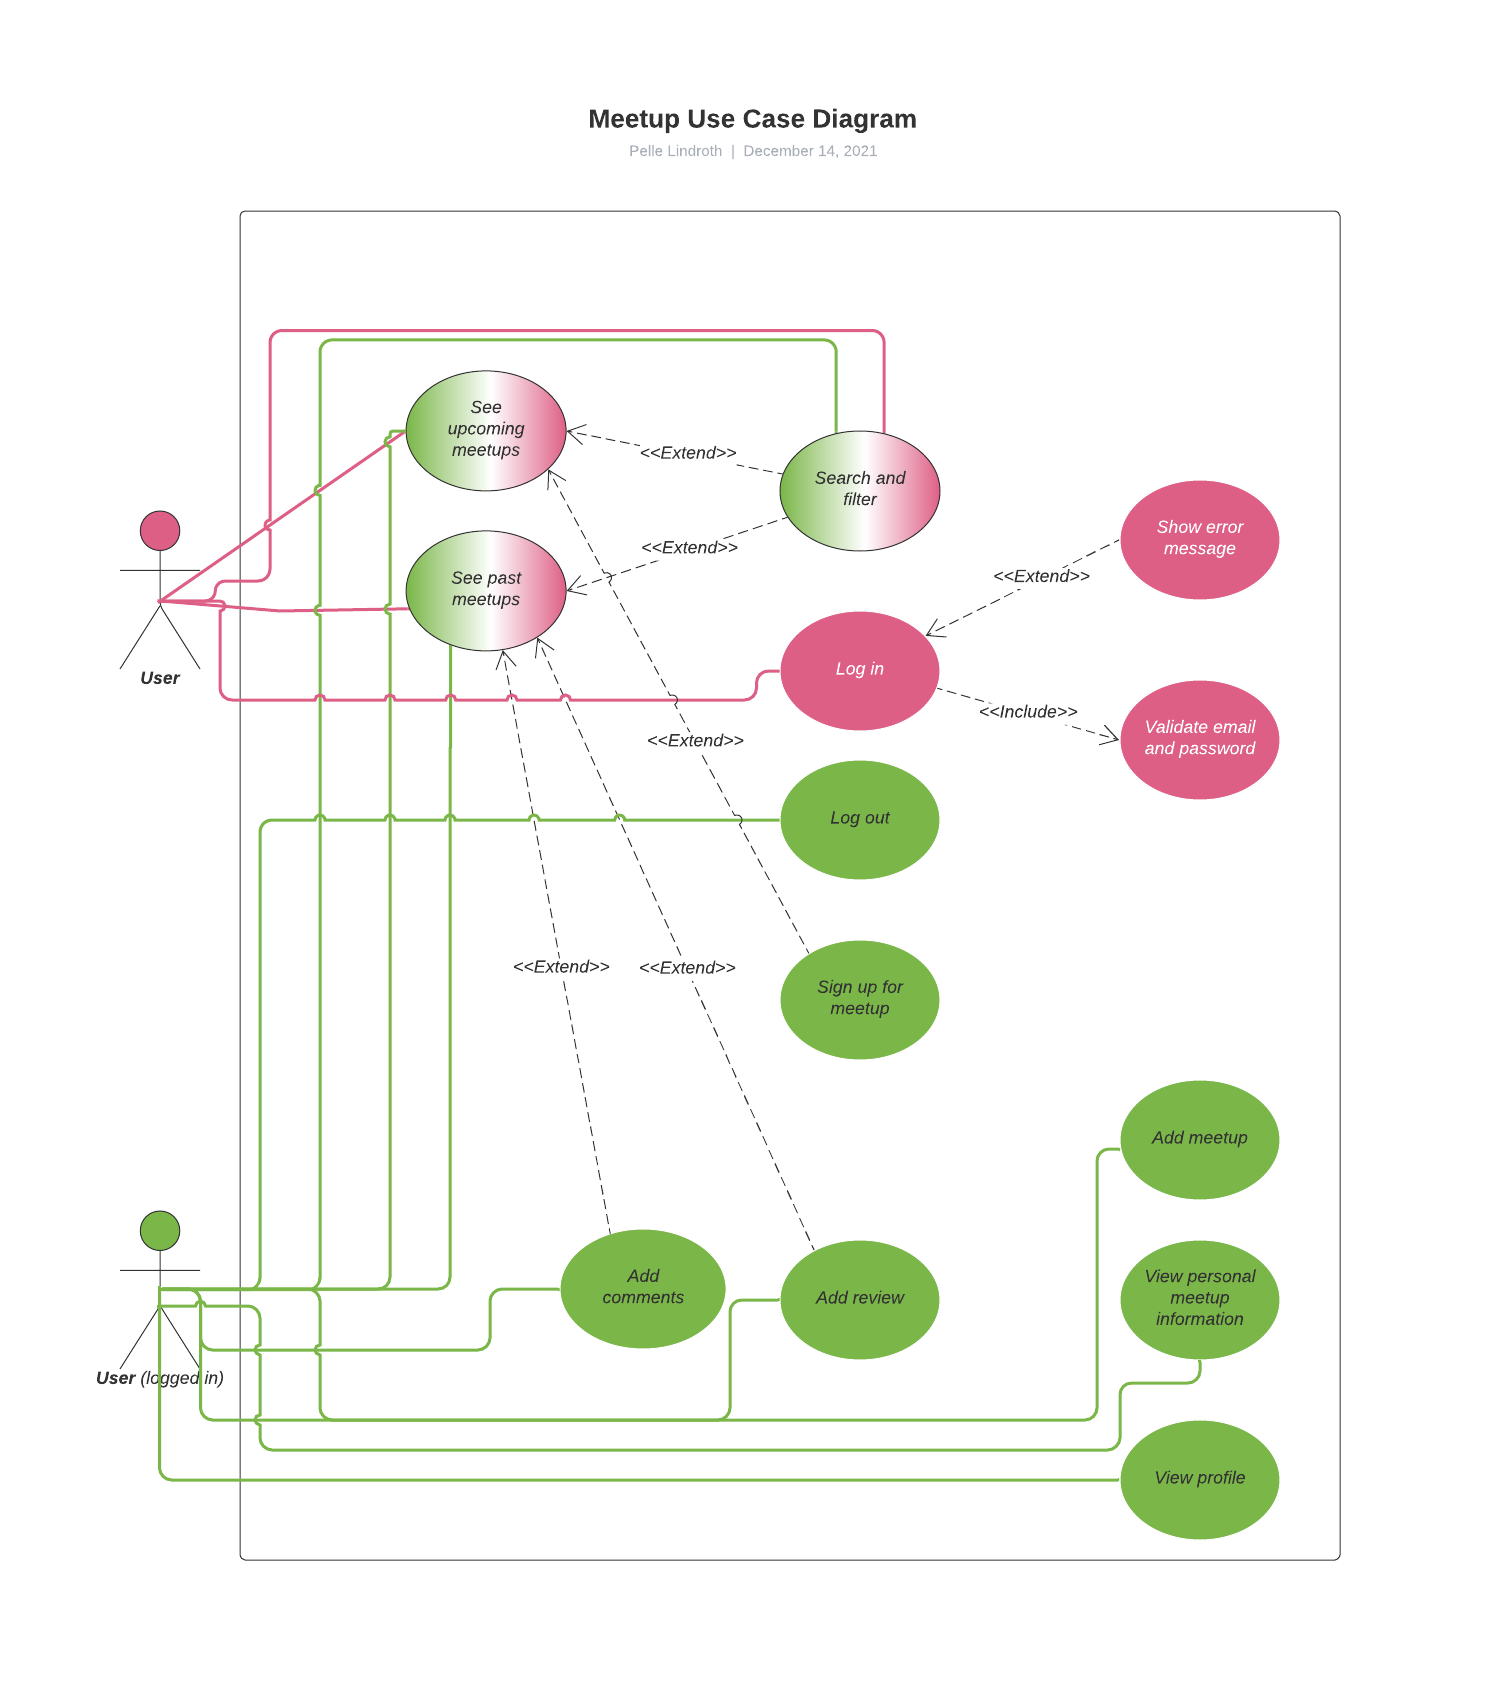
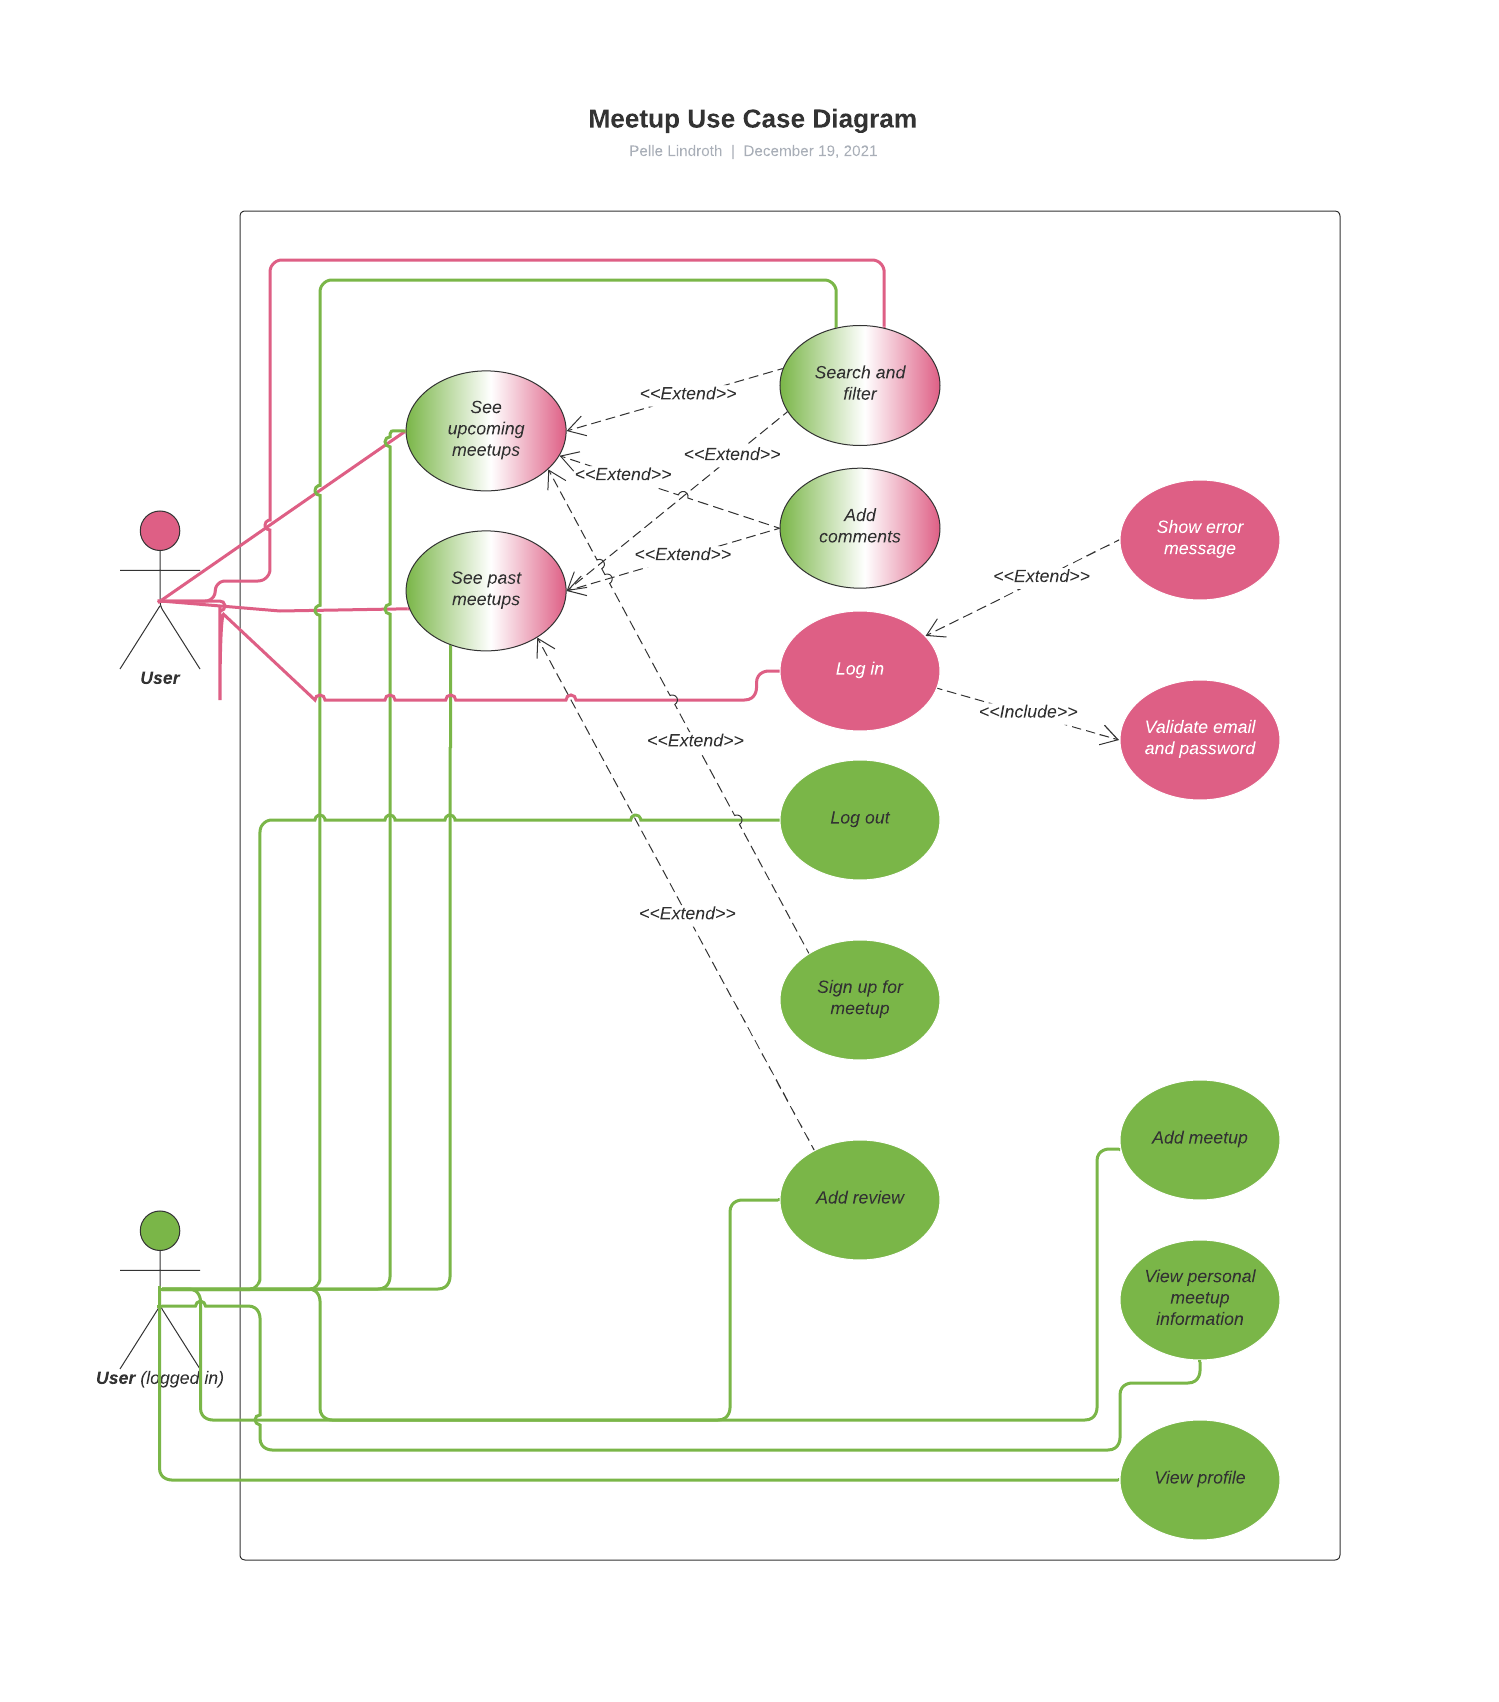
Update UML diagram and user story for comments

diff --git a/README.md b/README.md
@@ -30,17 +30,17 @@ so I can<br/>
 so I can<br/>
 **<em>let the arrangers know I'm coming and attend the event on the given date</em>**
 
+- As a user I want to<br/>
+**<em>be able to comment on an event I have attended</em>**<br/>
+so i can<br/>
+**<em>voice my opinion and communicate wth other attendees</em>**
+
 - As a user I want to<br/> 
 **<em>be able to log in</em>**<br/>
 so I can<br/> 
 **<em>get extended functionality</em>**
 
 ### Logged in users
-- As a logged in user I want to<br/>
-**<em>be able to comment on an event I have attended</em>**<br/>
-so i can<br/>
-**<em>voice my opinion and communicate wth other attendees</em>**
-
 - As a logged in user I want to<br/>
 **<em>be able to rate an event I have attended</em>**<br/>
 so i can<br/>
